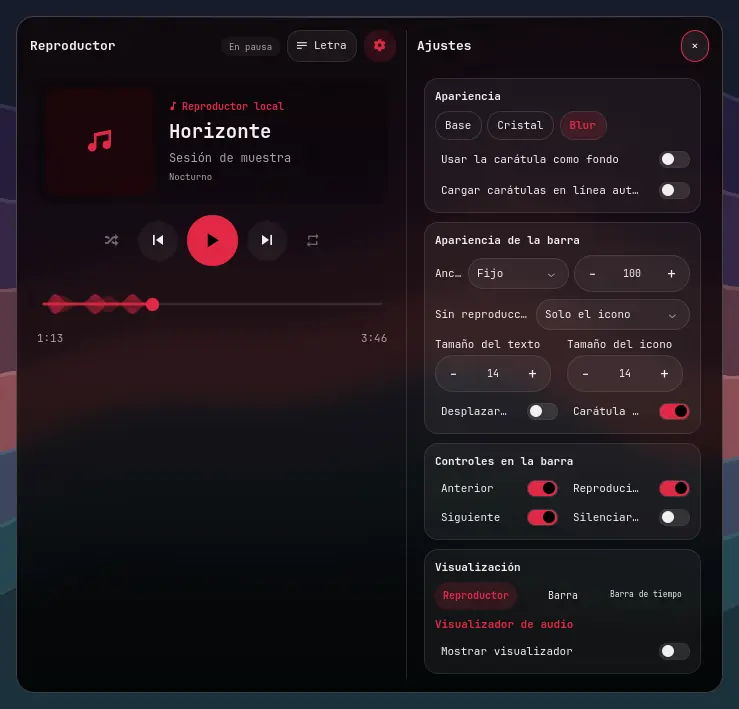
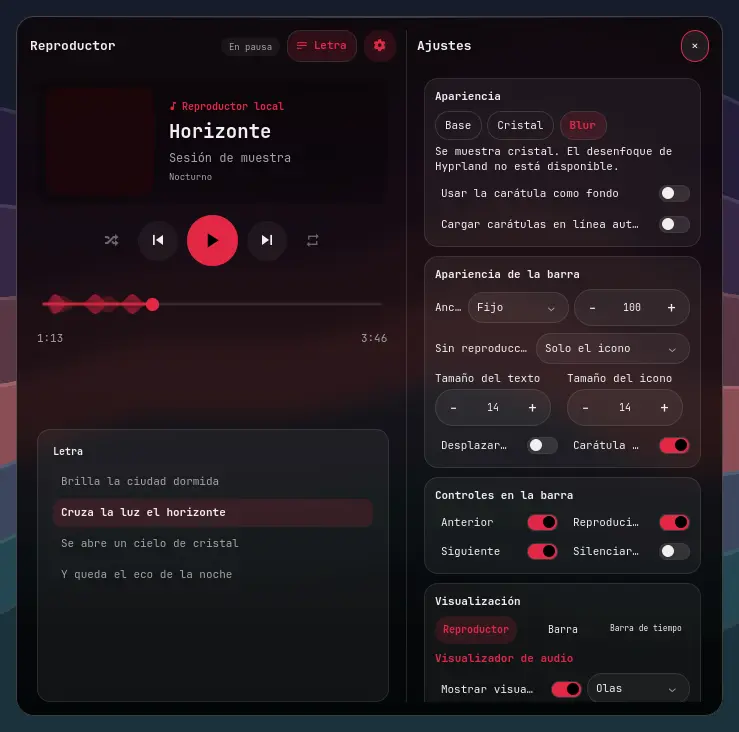
Release ElMeGGa OmaPlayer 1.1.1

diff --git a/README.md b/README.md
@@ -2,9 +2,11 @@
 
 Now-playing widget for the Omarchy shell, with playback controls, live audio visualizers, and optional synced lyrics.
 
-![OmaPlayer in Base, Glass and Blur](preview.jpg)
+![ElMeGGa OmaPlayer con su panel y funciones principales](preview.jpg)
 
-*Panels rendered from the plugin with sample data and the Rubí OLED palette. The background blur is simulated in the preview.*
+*The previews use sample data and the Rubí OLED palette. The appearance comparison simulates the backdrop blur.*
+
+[Compare Base, Glass and Blur](docs/appearance-finishes.webp) · [ElMeGGa OmaDesktop](https://github.com/megga-ernesto/ElMeGGa-OmaDesktop)
 
 ## English
 
